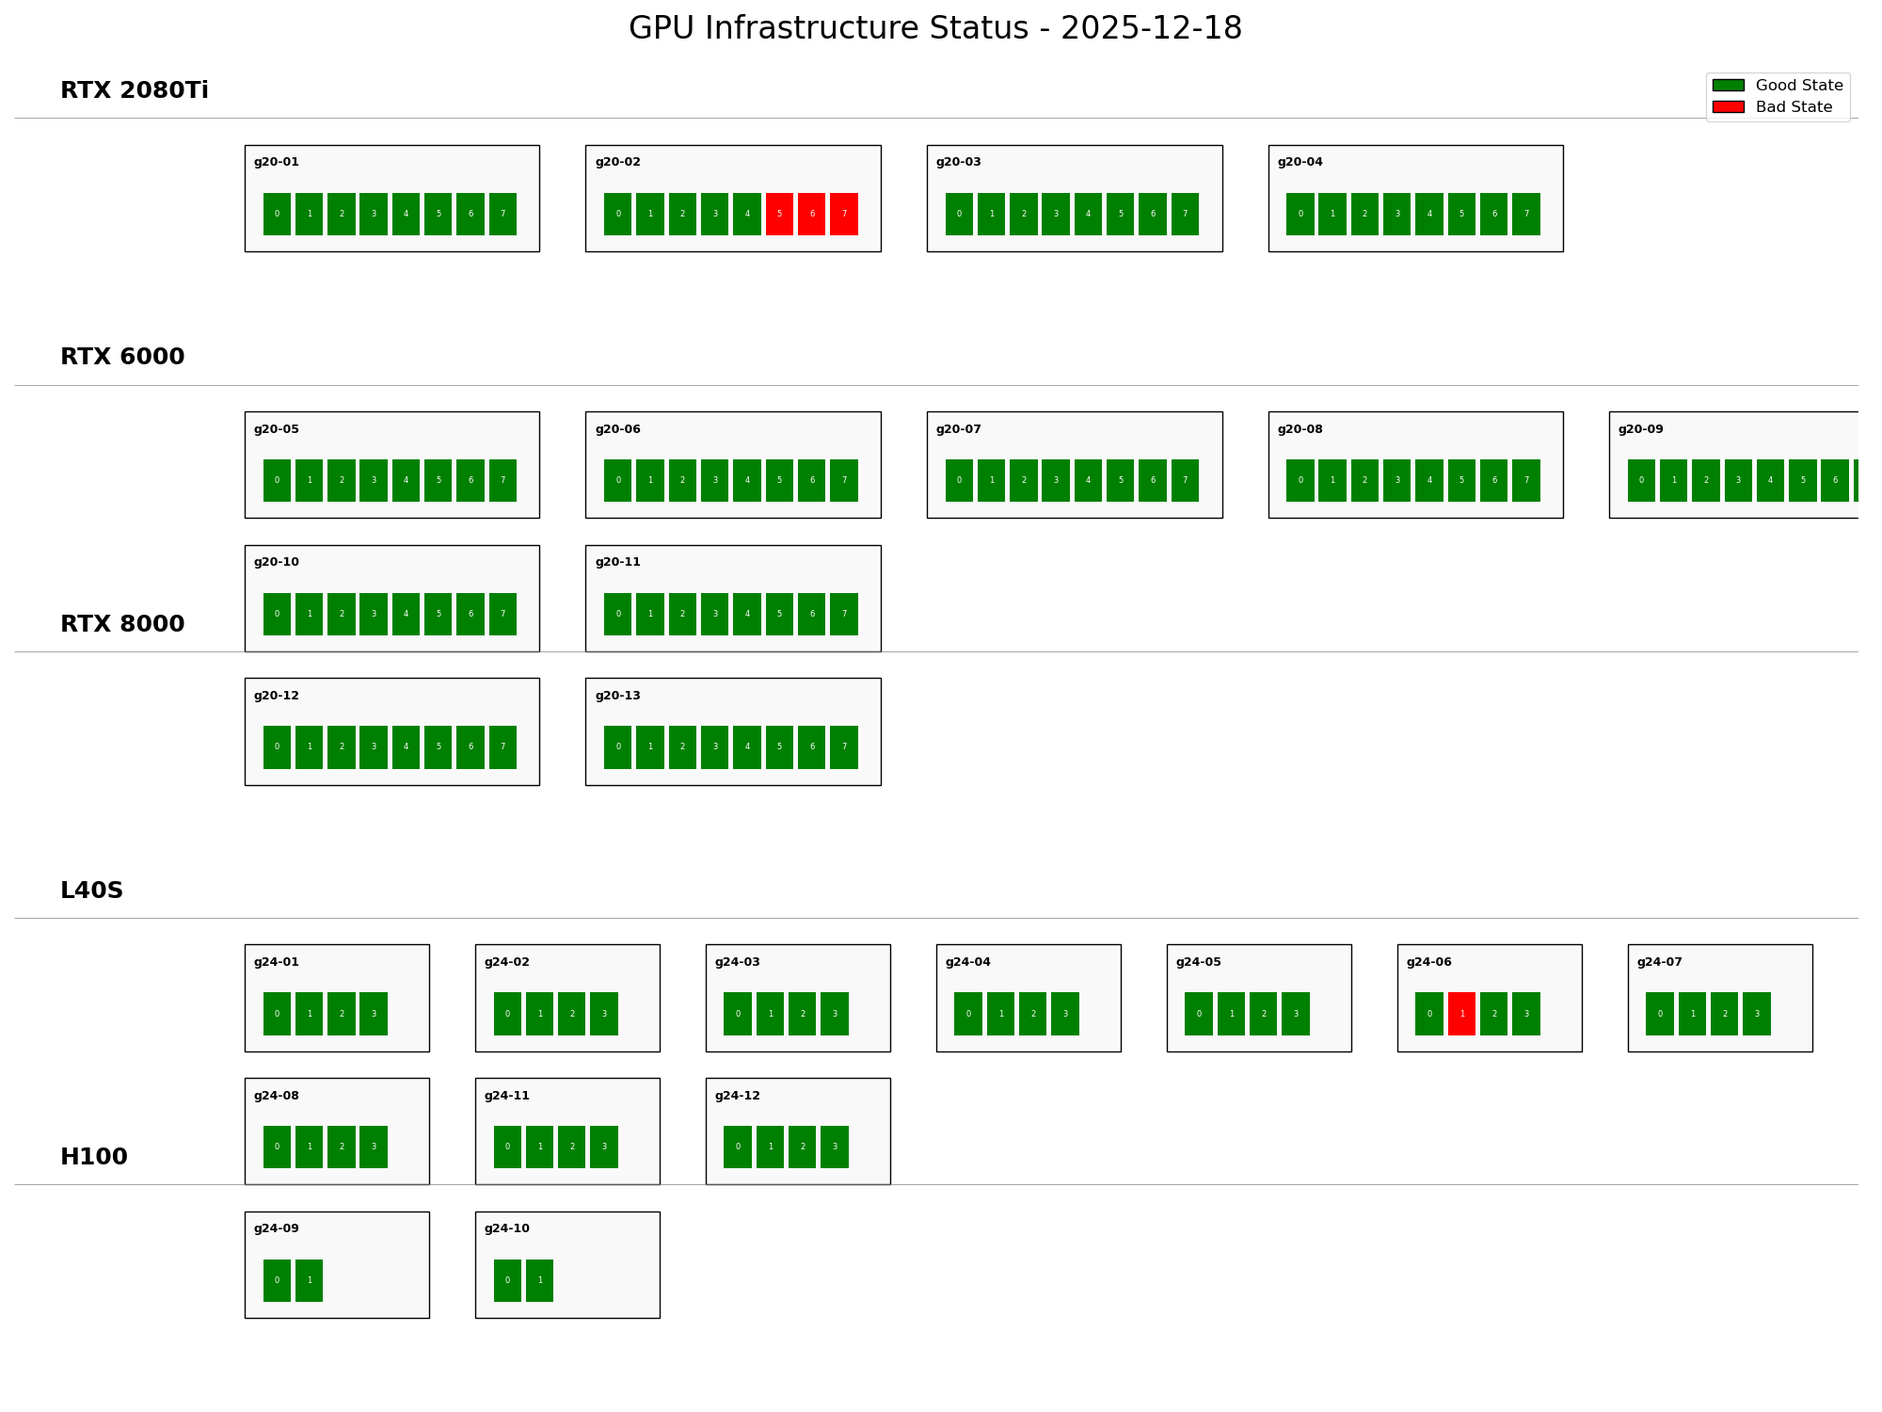
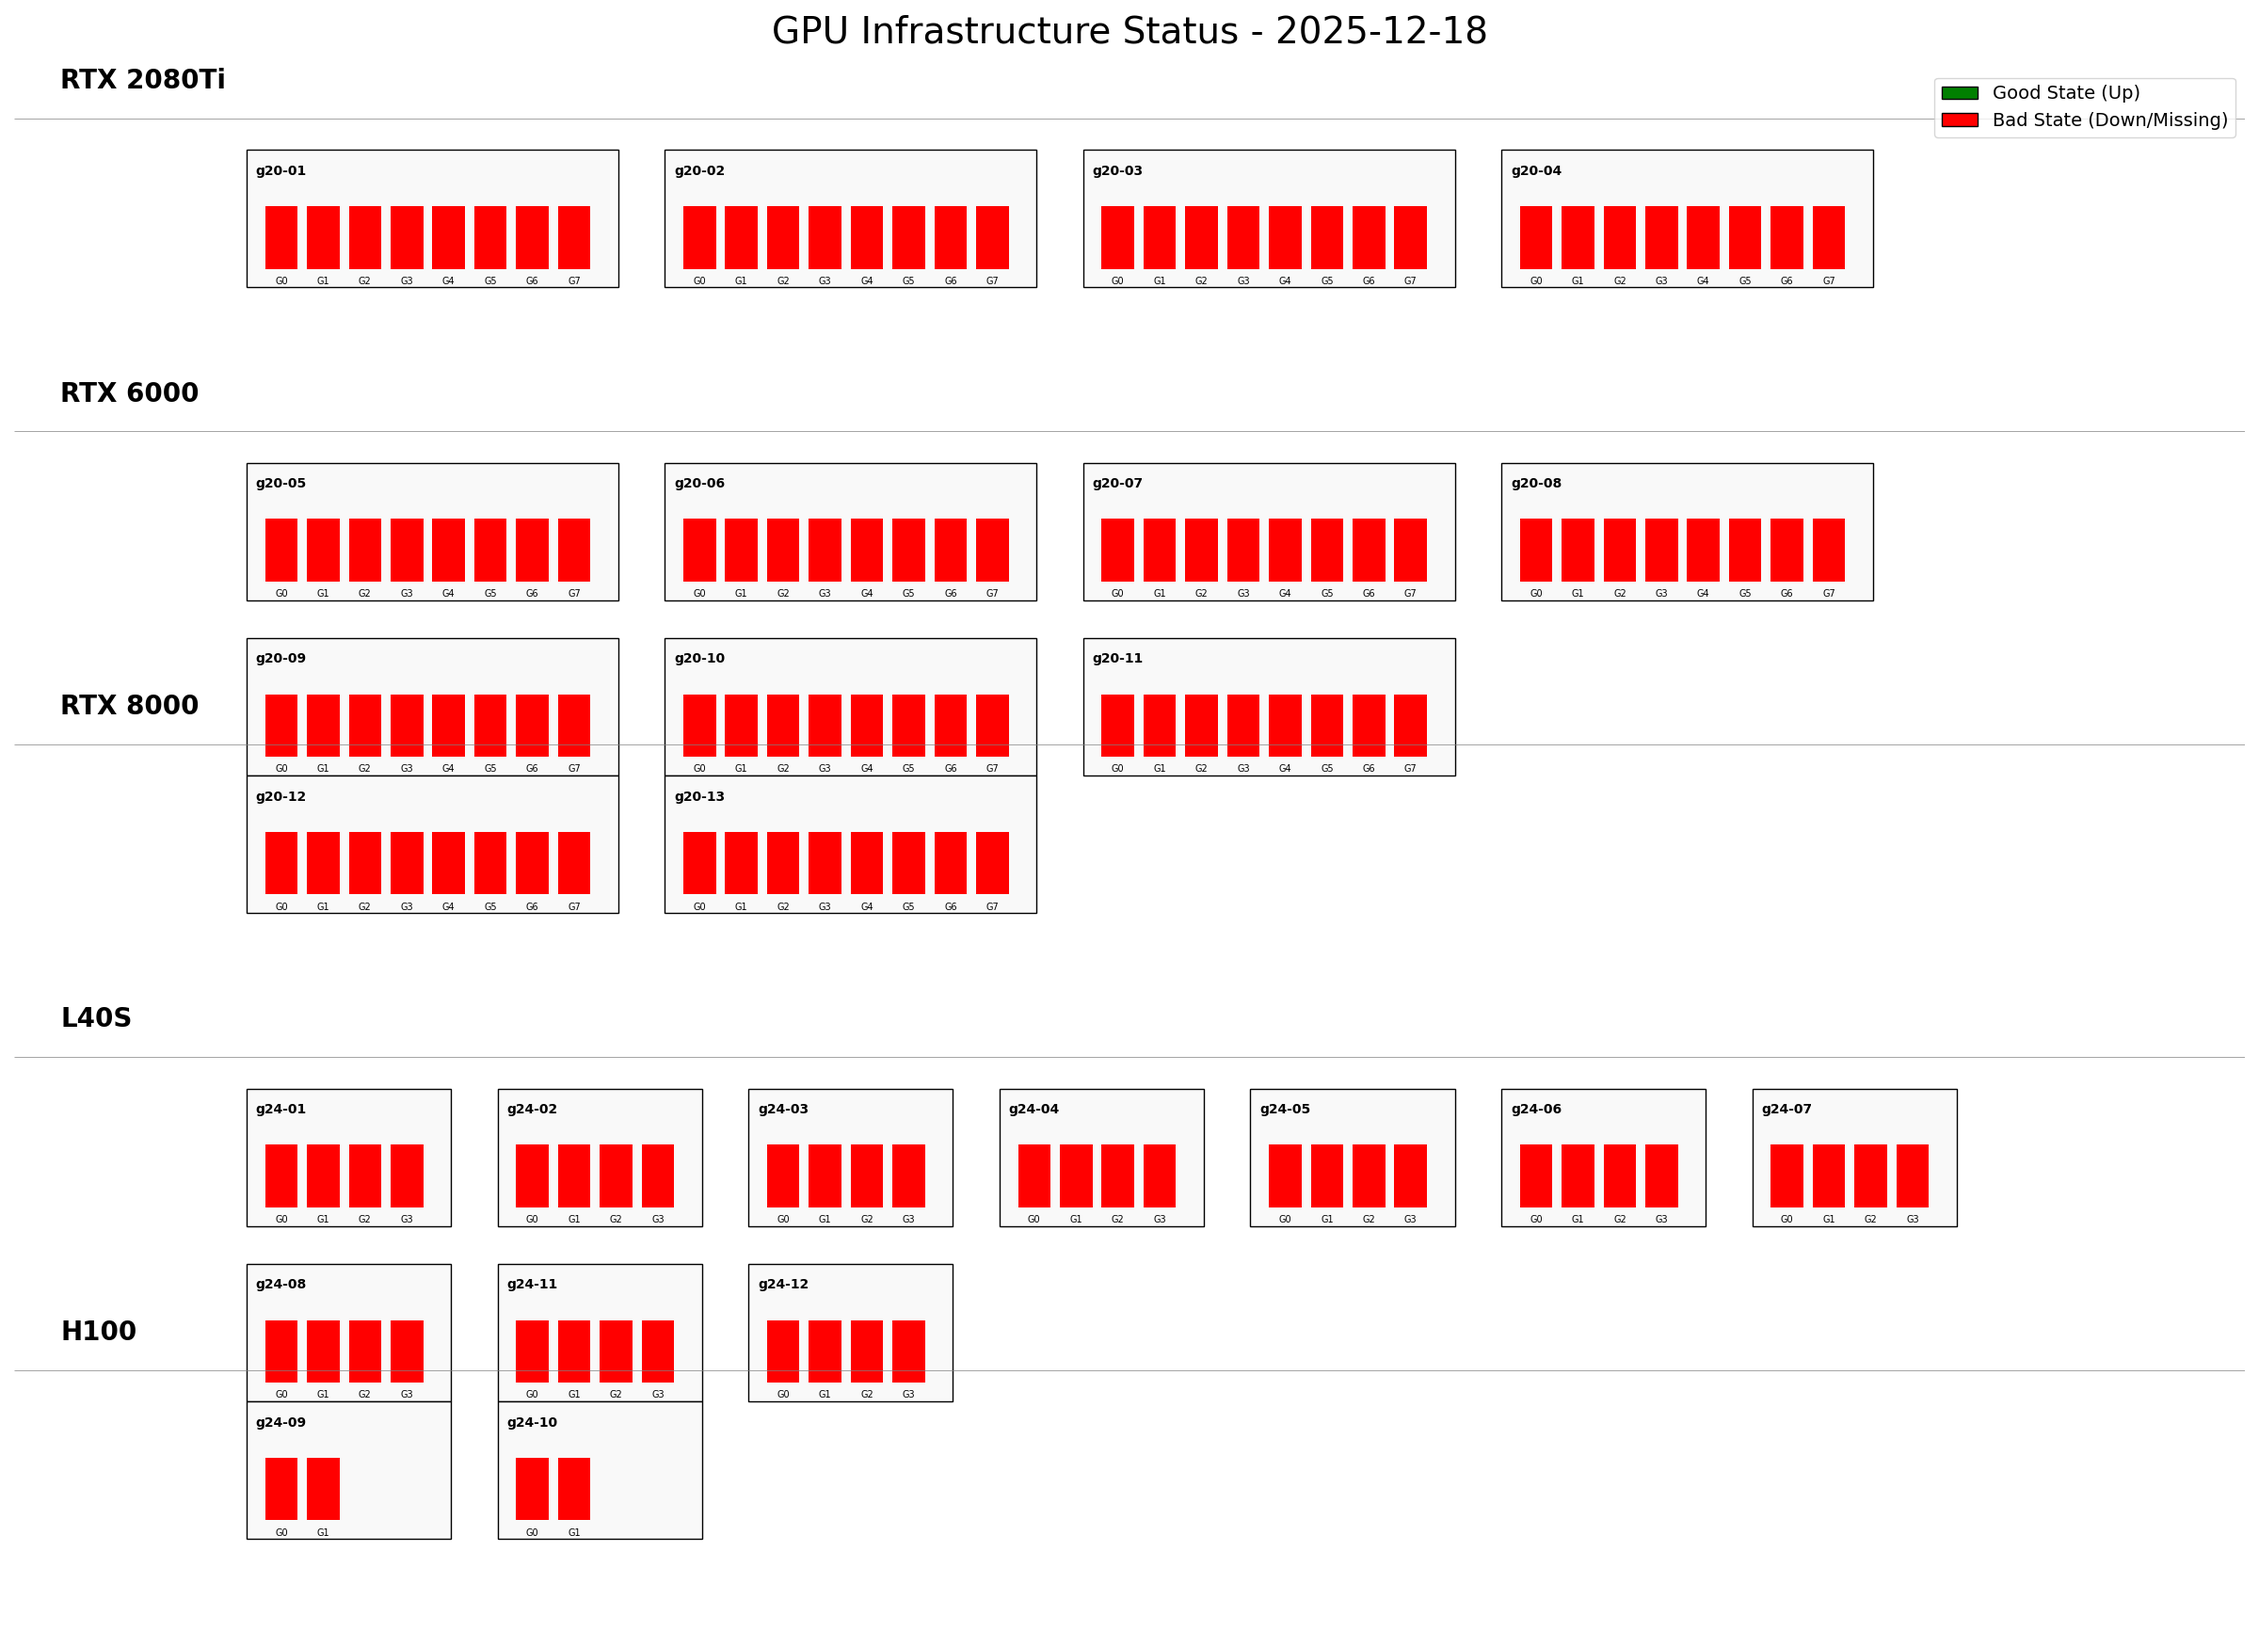
regened code

diff --git a/generate_gpu_status.py b/generate_gpu_status.py
@@ -4,113 +4,128 @@ import subprocess
 import datetime
 import glob
 import os
-import re
 import imageio.v2 as imageio
+import sys
 
-# --- Configuration: Expected Specs (for Robustness) ---
-# This serves as the "Ground Truth". If Slurm reports fewer, we know some are missing.
+# --- Configuration: Expected Specs ---
+# Based on 
 EXPECTED_SPECS = {
-    "RTX 2080Ti": {"nodes": ["g20-01", "g20-02", "g20-03", "g20-04"], "count": 8},
-    "RTX 6000":   {"nodes": [f"g20-{i:02d}" for i in range(5, 12)], "count": 8},
-    "RTX 8000":   {"nodes": ["g20-12", "g20-13"], "count": 8},
-    "L40S":       {"nodes": [f"g24-{i:02d}" for i in range(1, 9)] + ["g24-11", "g24-12"], "count": 4},
-    "H100":       {"nodes": ["g24-09", "g24-10"], "count": 2},
+    "RTX 2080Ti": {
+        "nodes": [f"g20-{i:02d}" for i in range(1, 5)], # g20-01 to g20-04
+        "count": 8
+    },
+    "RTX 6000": {
+        "nodes": [f"g20-{i:02d}" for i in range(5, 12)], # g20-05 to g20-11
+        "count": 8
+    },
+    "RTX 8000": {
+        "nodes": ["g20-12", "g20-13"],
+        "count": 8
+    },
+    "L40S": {
+        # g24-01 to g24-08 AND g24-11, g24-12
+        "nodes": [f"g24-{i:02d}" for i in range(1, 9)] + ["g24-11", "g24-12"], 
+        "count": 4
+    },
+    "H100": {
+        "nodes": ["g24-09", "g24-10"],
+        "count": 2
+    },
 }
 
-def get_slurm_topology():
+def get_real_gpu_status():
     """
-    Parses 'sinfo' to get the CURRENTLY recognized nodes and their states.
-    Returns a dictionary of nodes and their GRES strings.
-    """
-    # Using the format provided in your text file: %N (NodeList) %G (GRES)
-    cmd = ['sinfo', '-o', '%N|%G', '--noheader'] 
-    try:
-        result = subprocess.check_output(cmd, universal_newlines=True)
-    except FileNotFoundError:
-        # Mock data for testing/off-cluster execution
-        print("Warning: 'sinfo' not found. Using mock data based on your file.")
-        return mock_slurm_data()
-
-    topology = {}
-    for line in result.strip().split('\n'):
-        if '|' not in line: continue
-        nodes, gres = line.split('|')
-        
-        # Expand node ranges (e.g., g20-[01-03] -> g20-01, g20-02, g20-03)
-        # Note: A real implementation needs a strictly robust hostlist expander.
-        # For this script, we rely on the EXPECTED_SPECS keys to map found data.
-        pass 
-    
-    return result
-
-def check_gpu_status(node_list):
-    """
-    Runs nvidia-smi on specific nodes to check individual GPU health.
-    Returns a dict: { 'g20-01': [True, True, False, ...], ... }
+    Iterates through the expected topology and runs 'srun' to check
+    the physical presence of GPUs on each node via nvidia-smi.
     """
     status_map = {}
-    
-    # In a real run, you would iterate over nodes and run srun.
-    # cmd = f"srun -w {node} nvidia-smi --query-gpu=pstate --format=csv,noheader"
-    # For the sake of this script, we will simulate the status 
-    # based on the 'Current State' images you uploaded (random failures).
-    
+    print(f"Starting Cluster GPU Scan at {datetime.datetime.now().strftime('%H:%M:%S')}...")
+
     for gpu_type, spec in EXPECTED_SPECS.items():
+        print(f"Scanning {gpu_type} nodes...")
         for node in spec['nodes']:
-            # Default to all Good (True)
-            node_status = [True] * spec['count']
+            expected_count = spec['count']
             
-            # SIMULATION: Inject failures to match your example image
-            # In production, replace this logic with actual 'srun' output parsing
-            if node == "g20-02": # Example from your text where it had 5 instead of 8
-                node_status[5] = False
-                node_status[6] = False
-                node_status[7] = False
-            if node == "g24-06": # Random failure example
-                node_status[1] = False
+            # Default to all Bad (False) until proven Good
+            node_status = [False] * expected_count
+            
+            # Command to check GPU indices on the remote node
+            # -w: target node
+            # -N 1 -n 1: run one task
+            # --quiet: suppress srun banners
+            # The breakdown of the required flags
+            cmd = [
+                "srun",
+                "--cluster=chip-gpu",      # Target the GPU cluster
+                "--account=pi_doit",       # Use the privileged account
+                "--partition=support",     # Use the hidden 'support' partition
+                "--time=00:01:00",         # Set a short time limit (1 min is enough for nvidia-smi)
+                "--mem=1G",                # Request minimal memory (1GB)
+                "--gres=gpu:1",            # MANDATORY: You must request a GPU to touch the GPU node
+                "--nodelist={node_name}", # (Presumably you are iterating over nodes here)
+                "nvidia-smi"               # The actual command to run
+            ]
+            try:
+                # Run with a timeout to prevent hanging on down/busy nodes
+                # Adjust timeout (seconds) as needed based on cluster load
+                output = subprocess.check_output(
+                    cmd, shell=True, universal_newlines=True, timeout=10
+                )
                 
+                # Parse output: list of indices found (e.g., "0\n1\n2...")
+                found_indices = [int(x) for x in output.strip().split('\n') if x.strip().isdigit()]
+                
+                # Update status for found GPUs
+                for idx in found_indices:
+                    if idx < expected_count:
+                        node_status[idx] = True
+                    else:
+                        print(f"  [WARN] Node {node} reported GPU index {idx} which exceeds expected {expected_count}")
+
+            except subprocess.TimeoutExpired:
+                print(f"  [ERR] Node {node}: Timed out (Node likely busy or unresponsive)")
+                # Leaves node_status as all False (Red)
+            
+            except subprocess.CalledProcessError:
+                print(f"  [ERR] Node {node}: Connection failed or nvidia-smi error (Node likely DOWN)")
+                # Leaves node_status as all False (Red)
+
             status_map[node] = node_status
             
     return status_map
-
-def mock_slurm_data():
-    """Helper to ensure script runs even if you test it off-cluster"""
-    return "g20-[01-04]|gpu:8(RTX_2080Ti)"
 
 def draw_cluster_status(status_map, date_str):
     """
     Generates the visual diagram using Matplotlib.
     """
-    fig_width = 20
+    fig_width = 24
     # Calculate height based on number of categories
-    fig_height = len(EXPECTED_SPECS) * 3 
+    fig_height = len(EXPECTED_SPECS) * 3.5 
     fig, ax = plt.subplots(figsize=(fig_width, fig_height))
     
     # Styling
-    plt.title(f"GPU Infrastructure Status - {date_str}", fontsize=24, pad=20)
-    ax.set_xlim(0, 20)
+    plt.title(f"GPU Infrastructure Status - {date_str}", fontsize=28, pad=20)
+    ax.set_xlim(0, 24)
     ax.set_ylim(0, len(EXPECTED_SPECS) * 5)
     ax.axis('off')
 
     # Legend
     legend_elements = [
-        patches.Patch(facecolor='green', edgecolor='black', label='Good State'),
-        patches.Patch(facecolor='red', edgecolor='black', label='Bad State')
+        patches.Patch(facecolor='green', edgecolor='black', label='Good State (Up)'),
+        patches.Patch(facecolor='red', edgecolor='black', label='Bad State (Down/Missing)')
     ]
-    ax.legend(handles=legend_elements, loc='upper right', fontsize=12)
+    ax.legend(handles=legend_elements, loc='upper right', fontsize=14)
 
     y_offset = len(EXPECTED_SPECS) * 5 - 2
     
     for gpu_type, spec in EXPECTED_SPECS.items():
         # Draw Section Header
-        ax.text(0.5, y_offset + 1.5, gpu_type, fontsize=18, fontweight='bold', va='center')
+        ax.text(0.5, y_offset + 1.8, gpu_type, fontsize=20, fontweight='bold', va='center')
         
         # Draw Horizontal Divider
-        ax.hlines(y_offset + 1, 0, 20, colors='gray', linestyles='solid', linewidth=0.5)
+        ax.hlines(y_offset + 1.2, 0, 24, colors='gray', linestyles='solid', linewidth=0.5)
 
         x_offset = 2.5
-        node_count = 0
-        
         current_row_y = y_offset
         
         for node in spec['nodes']:
@@ -118,37 +133,35 @@ def draw_cluster_status(status_map, date_str):
             gpu_states = status_map.get(node, [False] * spec['count'])
             
             # Container Box for Node
-            # Width depends on number of GPUs (approx 0.5 unit per GPU)
-            box_width = max(2, spec['count'] * 0.4) 
-            rect = patches.Rectangle((x_offset, current_row_y - 1.5), box_width, 2, 
+            box_width = max(2.2, spec['count'] * 0.5) 
+            rect = patches.Rectangle((x_offset, current_row_y - 1.5), box_width, 2.2, 
                                      linewidth=1, edgecolor='black', facecolor='#f9f9f9')
             ax.add_patch(rect)
             
             # Node Label
-            ax.text(x_offset + 0.1, current_row_y + 0.1, node, fontsize=9, fontweight='bold')
+            ax.text(x_offset + 0.1, current_row_y + 0.3, node, fontsize=10, fontweight='bold')
             
             # Draw individual GPUs
             gpu_x = x_offset + 0.2
             for i, is_good in enumerate(gpu_states):
                 color = 'green' if is_good else 'red'
-                gpu_rect = patches.Rectangle((gpu_x, current_row_y - 1.2), 0.3, 0.8, 
+                gpu_rect = patches.Rectangle((gpu_x, current_row_y - 1.2), 0.35, 1.0, 
                                              linewidth=0, facecolor=color)
                 ax.add_patch(gpu_rect)
                 
-                # GPU ID Text (optional, small)
-                ax.text(gpu_x + 0.15, current_row_y - 0.8, str(i), 
-                        fontsize=6, color='white', ha='center', va='center')
+                # GPU ID Text
+                ax.text(gpu_x + 0.175, current_row_y - 1.4, f"G{i}", 
+                        fontsize=7, color='black', ha='center', va='center')
                 
-                gpu_x += 0.35
+                gpu_x += 0.45
 
             # Move to next node position
             x_offset += box_width + 0.5
-            node_count += 1
             
             # Wrap to next line if too many nodes in one row
-            if x_offset > 18:
+            if x_offset > 20:
                 x_offset = 2.5
-                current_row_y -= 2.5
+                current_row_y -= 2.8
 
         # Move Y offset down for the next Category
         y_offset -= 5
@@ -166,6 +179,7 @@ def create_gif():
     Compiles all gpu_status_*.png files into an animated GIF.
     """
     images = []
+    # Sort primarily by date pattern inside filename
     filenames = sorted(glob.glob("gpu_status_*.png"))
     
     if not filenames:
@@ -177,15 +191,16 @@ def create_gif():
         images.append(imageio.imread(filename))
         
     # Save GIF (duration is seconds per frame)
-    imageio.mimsave('gpu_health_trends.gif', images, duration=1.0, loop=0)
-    print("GIF generated: gpu_health_trends.gif")
+    gif_name = 'gpu_health_trends.gif'
+    imageio.mimsave(gif_name, images, duration=1.0, loop=0)
+    print(f"GIF generated: {gif_name}")
 
 # --- Execution ---
 if __name__ == "__main__":
     today = datetime.datetime.now().strftime("%Y-%m-%d")
     
-    # 1. Gather Data
-    current_status = check_gpu_status([]) # Pass empty list as we are using EXPECTED_SPECS keys
+    # 1. Gather Data (LIVE)
+    current_status = get_real_gpu_status()
     
     # 2. Generate Daily Image
     draw_cluster_status(current_status, today)
